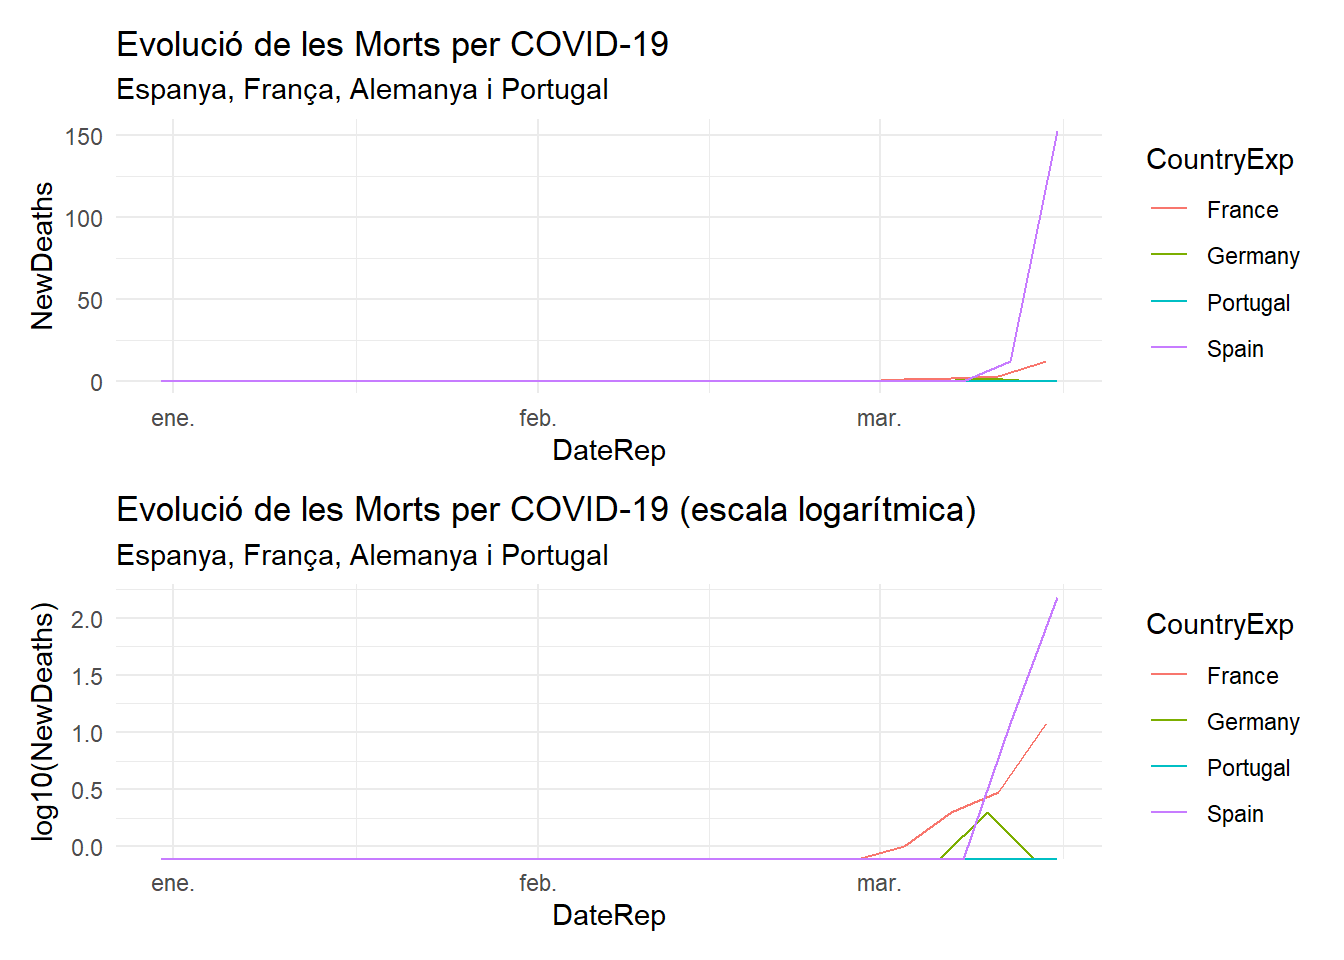
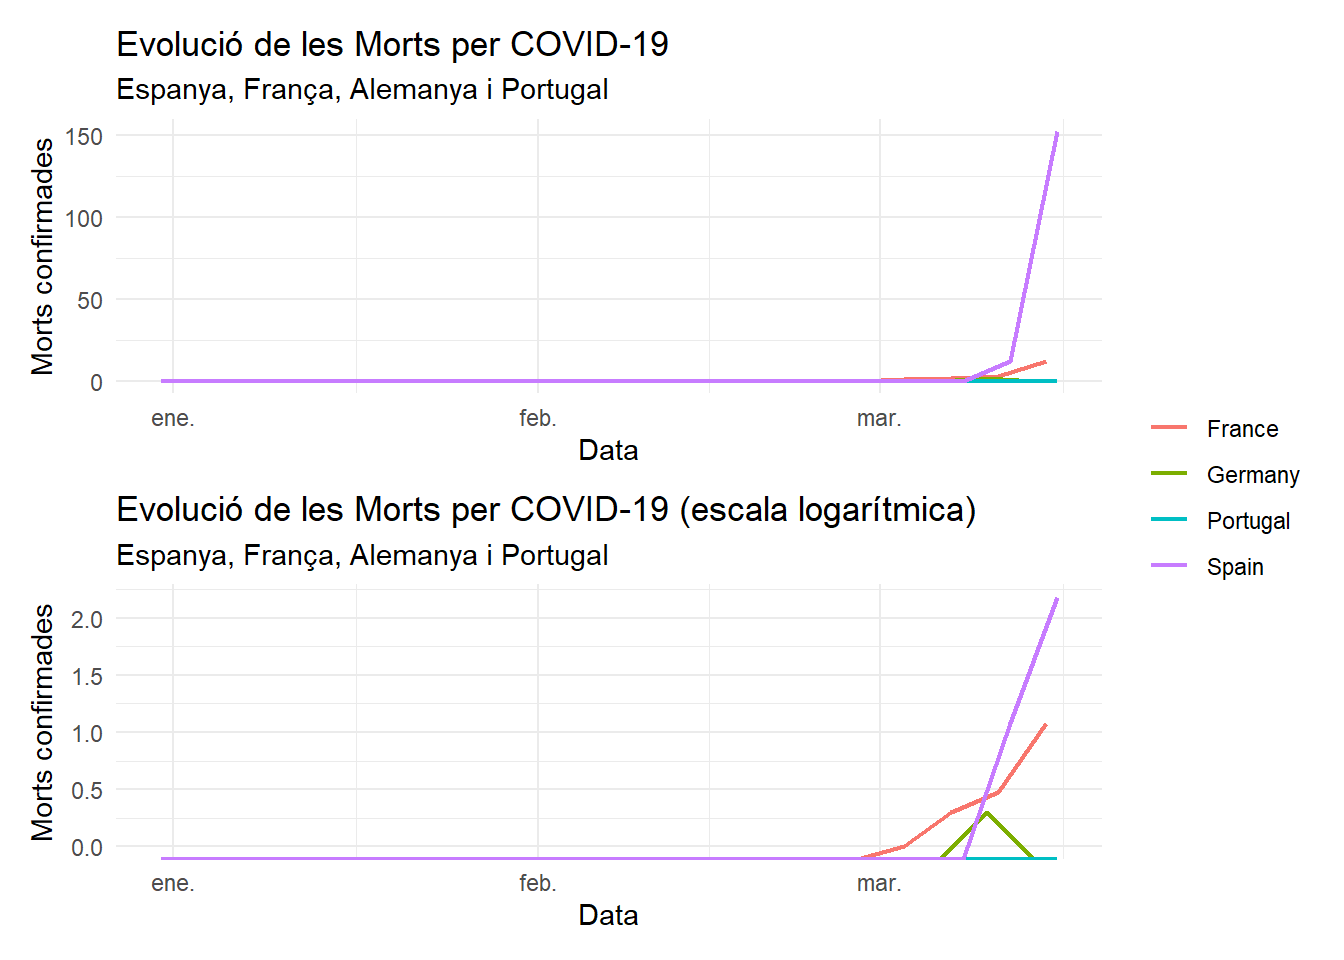
update

diff --git a/blog/coronavirus2/index.html b/blog/coronavirus2/index.html
@@ -1180,43 +1180,41 @@ View(COVID_19_distribucio_mundial)</code></pre>
 <p>Representem gràfics per país de l’evolució dels casos a Europa</p>
 <pre class="r"><code>COVID_19_eu &lt;- COVID_19_distribucio_mundial %&gt;% filter(EU == &quot;EU&quot;)
 
-ggplot(COVID_19_eu, aes(x = DateRep, y = log10(NewConfCases))) + geom_line() +
+ggplot(COVID_19_eu, aes(x = DateRep, y = NewConfCases)) + geom_line() +
     facet_wrap(~CountryExp, scales = &quot;free_y&quot;) +
     ggtitle(&quot;Evolució de nous casos de COVID-19&quot;) +
-    labs(subtitle = &quot;Europa&quot;) + theme_minimal()</code></pre>
+    labs(subtitle = &quot;Europa&quot;, x = &quot;Data&quot;, y = &quot;Nous casos confirmats&quot;) + theme_minimal()</code></pre>
 <p><img src="/blog/2020-03-09-cov19spread-part2_files/figure-html/unnamed-chunk-2-1.png" width="672" /></p>
 <p>Evolució de nous casos a països propers</p>
 <pre class="r"><code>COVID_19_paisos &lt;- COVID_19_distribucio_mundial %&gt;% filter(CountryExp == c(&quot;Spain&quot;,&quot;Germany&quot;,&quot;France&quot;,&quot;Portugal&quot;))
 
-COVID_19_evolucio &lt;-ggplot(COVID_19_paisos, aes(x = DateRep, y = NewConfCases, col = CountryExp)) + geom_line() + theme_minimal() +
-    ggtitle(&quot;Evolució de Nous Casos de COVID-19&quot;) +
-  labs(subtitle = &quot;Espanya, França, Alemanya i Portugal&quot;)
+COVID_19_evolucio &lt;-ggplot(COVID_19_paisos, aes(x = DateRep, y = NewConfCases, col = CountryExp)) + geom_line(size = 0.8) + theme_minimal() +
+    labs(title = &quot;Evolució de Nous Casos de COVID-19&quot;, subtitle = &quot;Espanya, França, Alemanya i Portugal&quot;, x = &quot;Data&quot;, y = &quot;Nous casos confirmats&quot;)
 
-COVID_19_evolucio_log &lt;-ggplot(COVID_19_paisos, aes(x = DateRep, y = log10(NewConfCases), col = CountryExp)) + geom_line() + theme_minimal() +
-    ggtitle(&quot;Evolució de Nous Casos de COVID-19 (escala logarítmica)&quot;) +
-  labs(subtitle = &quot;Espanya, França, Alemanya i Portugal&quot;)
+COVID_19_evolucio_log &lt;-ggplot(COVID_19_paisos, aes(x = DateRep, y = log10(NewConfCases), col = CountryExp)) + geom_line(size = 0.8) + theme_minimal() +
+    labs(title = &quot;Evolució de Nous Casos de COVID-19 (escala logarítmica)&quot;, subtitle = &quot;Espanya, França, Alemanya i Portugal&quot;, x = &quot;Data&quot;, y = &quot;Nous casos confirmats&quot;)
 
        
 #usem el paquet patchwork per posar els dos plots junts
 library(patchwork)
 
-COVID_19_evolucio / COVID_19_evolucio_log</code></pre>
+
+combinat&lt;- COVID_19_evolucio / COVID_19_evolucio_log &amp; theme(legend.position = &quot;right&quot;, legend.title=element_blank())
+combinat + plot_layout(guides = &quot;collect&quot;)</code></pre>
 <p><img src="/blog/2020-03-09-cov19spread-part2_files/figure-html/unnamed-chunk-3-1.png" width="672" /></p>
 <p>Evolució de noves morts a països propers</p>
 <pre class="r"><code>COVID_19_spain &lt;- COVID_19_distribucio_mundial %&gt;% filter(CountryExp == c(&quot;Spain&quot;,&quot;Germany&quot;,&quot;France&quot;,&quot;Portugal&quot;))
 
-COVID_19_evolucio &lt;-ggplot(COVID_19_spain, aes(x = DateRep, y = NewDeaths, col = CountryExp)) + geom_line() + theme_minimal() +
-    ggtitle(&quot;Evolució de les Morts per COVID-19&quot;) +
-  labs(subtitle = &quot;Espanya, França, Alemanya i Portugal&quot;)
+COVID_19_morts &lt;-ggplot(COVID_19_spain, aes(x = DateRep, y = NewDeaths, col = CountryExp)) + geom_line (size = 0.8) + theme_minimal() +
+  labs(title = &quot;Evolució de les Morts per COVID-19&quot;, subtitle = &quot;Espanya, França, Alemanya i Portugal&quot;, x = &quot;Data&quot;, y = &quot;Morts confirmades&quot;)
 
-COVID_19_evolucio_log &lt;-ggplot(COVID_19_spain, aes(x = DateRep, y = log10(NewDeaths), col = CountryExp)) + geom_line() + theme_minimal() +
-    ggtitle(&quot;Evolució de les Morts per COVID-19 (escala logarítmica)&quot;) +
-  labs(subtitle = &quot;Espanya, França, Alemanya i Portugal&quot;)
+COVID_19_morts_log &lt;-ggplot(COVID_19_spain, aes(x = DateRep, y = log10(NewDeaths), col = CountryExp)) + geom_line(size = 0.8) + theme_minimal() + labs(title = &quot;Evolució de les Morts per COVID-19 (escala logarítmica)&quot;, subtitle = &quot;Espanya, França, Alemanya i Portugal&quot;, x = &quot;Data&quot;, y = &quot;Morts confirmades&quot;)
 
 #usem el paquet patchwork per posar els dos plots junts
 library(patchwork)
 
-COVID_19_evolucio / COVID_19_evolucio_log</code></pre>
+combinatm &lt;- COVID_19_morts / COVID_19_morts_log &amp; theme(legend.position = &quot;right&quot;, , legend.title=element_blank())
+combinatm + plot_layout(guides = &quot;collect&quot;)</code></pre>
 <p><img src="/blog/2020-03-09-cov19spread-part2_files/figure-html/unnamed-chunk-4-1.png" width="672" /></p>
 <p><em>(gràfics generats el primer cop a dia 17/03/2020)</em></p>
 <p>`</p>
